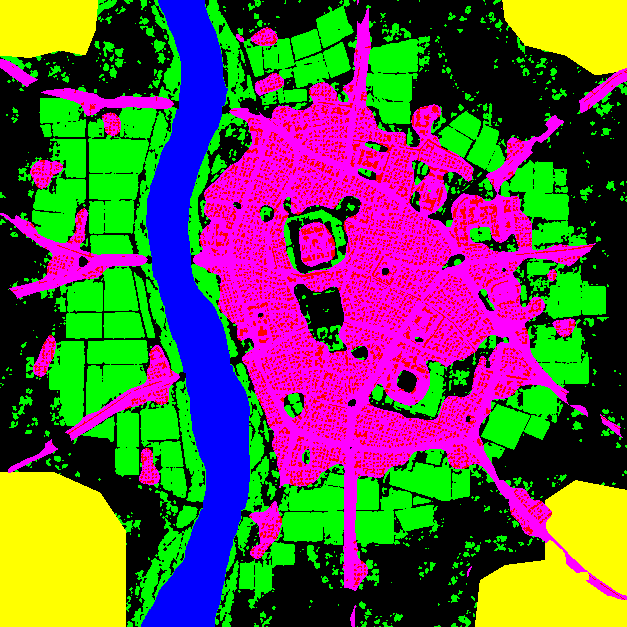
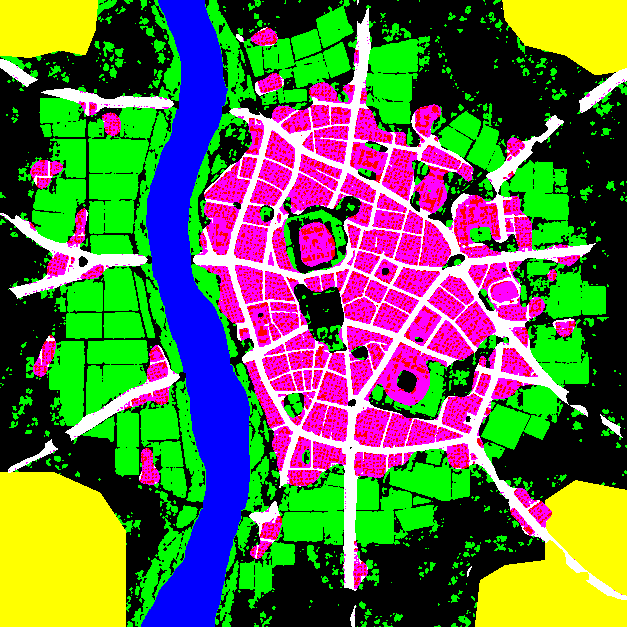
Let the owner's red picture decide where vehicles drive
The owner painted everything vehicles may drive on red on a copy of
the map. The mask builder turns it into a per-cell layer; with a layer
present it alone decides where vehicles can go, and terrain only how
fast. City streets from the layer replace the hand-traced roads as the
limit on vehicle movement; traced roads remain as the fast routes.

diff --git a/tools/make_terrain_mask.py b/tools/make_terrain_mask.py
@@ -3,14 +3,18 @@
 
 Usage: tools/make_terrain_mask.py [PREVIEW.png]
 
-Input:  assets/maps/city.png          the map as painted
-Output: assets/maps/city_terrain.png  one pixel per game cell, coloured by terrain
+Input:  assets/maps/city.png           the map as painted
+        assets/maps/source/city_vehicles.png  the same map with everything vehicles may
+                                       drive on painted red (made by the owner)
+Output: assets/maps/city_terrain.png   one pixel per game cell, coloured by terrain
+        assets/maps/city_drive.png     one pixel per game cell, white where vehicles go
 
 A game cell is CELL x CELL pixels of the picture, small enough to keep the gaps
 between houses open. The mask is an ordinary picture: it can be opened and
 corrected by hand, and the game reads whatever is in it.
 
 Colours:
+  white   street: red in the vehicle picture and inside the built-up area
   red     building: nobody passes
   magenta yards and alleys between buildings: infantry only, good cover
   green   orchards, fields and trees: infantry only, slow, concealed
@@ -19,10 +23,10 @@ Colours:
   black   open ground: infantry only
 
 Water and buildings are found from colour. Hills cannot be told from open ground
-that way, so they are outlined by hand below. Roads are not in the mask: they are
-traced by hand in scripts/sim/map_library.gd and laid over it when the map loads,
-which keeps the road network connected. The game also reads white as road and
-cyan as bridge, for a mask painted by hand.
+that way, so they are outlined by hand below. Where vehicles may drive comes
+from the owner's red picture and nothing else. The main roads, which only make
+vehicles faster, are traced by hand in scripts/sim/map_library.gd and laid over
+the mask when the map loads; there a road over water becomes a bridge.
 """
 import sys
 
@@ -30,7 +34,9 @@ import numpy as np
 from PIL import Image, ImageDraw, ImageFilter
 
 SOURCE = "assets/maps/city.png"
+VEHICLES = "assets/maps/source/city_vehicles.png"
 MASK = "assets/maps/city_terrain.png"
+DRIVE = "assets/maps/city_drive.png"
 CELL = 2
 REFERENCE = 1254.0  # the hand-made coordinates below are for a picture this wide
 
@@ -43,7 +49,7 @@ HILLS = [
 ]
 
 COLORS = {
-    "building": (255, 0, 0),
+    "road": (255, 255, 255), "building": (255, 0, 0),
     "town": (255, 0, 255), "grove": (0, 255, 0), "high": (255, 255, 0),
     "water": (0, 0, 255), "open": (0, 0, 0),
 }
@@ -121,6 +127,12 @@ def main():
     streets = grow(long_runs(light, 27), 1) & light
     buildings = light & ~streets & built
 
+    # Vehicles: everything the owner painted red. Red means more red than blue;
+    # the untouched parts of the picture are blue.
+    painted = np.asarray(Image.open(VEHICLES).convert("RGB").resize(picture.size), float)
+    drive = (painted[..., 0] - painted[..., 2]) > 40
+    streets = drive & built
+
     outline = Image.new("L", picture.size, 0)
     for hill in HILLS:
         ImageDraw.Draw(outline).polygon([(x * scale, y * scale) for x, y in hill], fill=255)
@@ -129,7 +141,8 @@ def main():
 
     cells = size // CELL
     layers = [
-        ("water", water, 0.5), ("building", buildings, 0.5), ("town", built, 0.5),
+        ("water", water, 0.5), ("road", streets, 0.5), ("building", buildings, 0.5),
+        ("town", built, 0.5),
         ("high", high, 0.5), ("grove", grove, 0.5),
     ]
     result = np.zeros((cells, cells, 3), np.uint8)
@@ -145,6 +158,11 @@ def main():
     counts["open"] = int((~decided).sum())
     Image.fromarray(result).save(MASK)
     print(MASK, f"{cells}x{cells}", counts)
+
+    trimmed = drive[:cells * CELL, :cells * CELL].astype(float)
+    drive_cells = trimmed.reshape(cells, CELL, cells, CELL).mean(axis=(1, 3)) >= 0.5
+    image_of(drive_cells).save(DRIVE)
+    print(DRIVE, f"{100.0 * drive_cells.mean():.0f}% of the map is open to vehicles")
 
     if len(sys.argv) > 1:
         tint = np.asarray(Image.fromarray(result).resize(picture.size, Image.NEAREST), float)

diff --git a/docs/design.md b/docs/design.md
@@ -29,26 +29,31 @@
 `tools/make_terrain_mask.py`: воду и дома он находит по цвету, улицы отличает от крыш
 по длине. Её можно открыть и поправить руками.
 
-Две вещи заданы вручную, потому что по картинке надёжно не определяются: главные дороги
-(список в `scripts/sim/map_library.gd`, обведены по картинке) и контуры высот (в скрипте
-маски).
+Где может ездить техника, задаёт владелец: он красит разрешённое красным на копии карты
+(`assets/maps/source/city_vehicles.png`), и тот же скрипт превращает это в слой
+`assets/maps/city_drive.png`. Сейчас красным закрашены все улицы, площадь, мосты и открытая
+местность с полями и холмами; кварталы, дворы, крупные здания и река — нет.
+
+Две вещи заданы вручную: главные дороги (список в `scripts/sim/map_library.gd`) и контуры
+высот (в скрипте маски). Дороги больше не решают, где техника проедет, — только где она
+едет быстрее.
 
 Игрок приходит с западного берега. Объекты — «Мост», «Площадь» и «Кольцо» — лежат
 за рекой, противник подходит с востока.
 
 | Местность | Пехота | Техника | Что даёт |
 |---|---|---|---|
-| Дорога | идёт | едет быстро | — |
+| Главная дорога, улица | идёт | едет быстро | — |
 | Мост | идёт | едет | единственный путь через реку |
 | Дворы и проходы между домами | идёт | не проходит | защита в бою, скрытность |
 | Здание | не проходит | не проходит | — |
-| Открытое место | идёт | не проходит | ничего, отряд на виду |
-| Сады и поля | идёт медленно | не проходит | скрывает отряд |
-| Высота | идёт медленно | не проходит | дальний обзор |
+| Открытое место | идёт | едет, если закрашено красным | ничего, отряд на виду |
+| Сады и поля | идёт медленно | едет медленно, если закрашено | скрывает отряд |
+| Высота | идёт медленно | едет медленно, если закрашено | дальний обзор |
 | Вода | не проходит | не проходит | — |
 
-Техника ездит только по главным дорогам. Пехота дорогами не связана: она обходит дома
-и идёт дворами и проходами между ними.
+Техника ездит только там, где владелец закрасил карту красным. Пехота этим слоем не
+связана: она обходит дома и идёт дворами и проходами между ними.
 
 Маршрут к указанной точке отряд строит сам, с учётом своей проходимости.
 
@@ -159,5 +164,5 @@
   и артиллерия были не нужны;
 - добавлено восполнение потерь в районе высадки: без него отход не имел смысла;
 - карта заменена на городскую, нарисованную владельцем; гарнизоны удвоены;
-- дома стали препятствиями, техника ездит только по дорогам (по указанию владельца);
+- дома стали препятствиями, техника ездит только там, где владелец закрасил карту красным;
 - добавлено правило засады, чтобы разведка окупалась в городском бою.

diff --git a/CLAUDE.md b/CLAUDE.md
@@ -32,6 +32,9 @@
   `tools/make_terrain_mask.py`; после замены картинки запустить его и проверить глазами
   предпросмотр, который он пишет. Главные дороги и объекты заданы в `map_library.gd`
   в точках картинки шириной 1254 — при новой карте их надо обвести заново.
+- `assets/maps/source/city_vehicles.png` — копия карты, на которой владелец закрасил красным
+  всё, где ездит техника. Из неё тот же скрипт делает слой `city_drive.png`. Этот слой —
+  единственное, что решает, куда техника может заехать; не подменять его своей разметкой.
 - Расстояния в правилах заданы в условных единицах; `BattleMap.unit` говорит, сколько
   клеток в единице. Всё, что сравнивает расстояния, умножает числа правил на `map.unit`.
 - `scenes/battle.tscn` — главная сцена; интерфейс собирается кодом.
